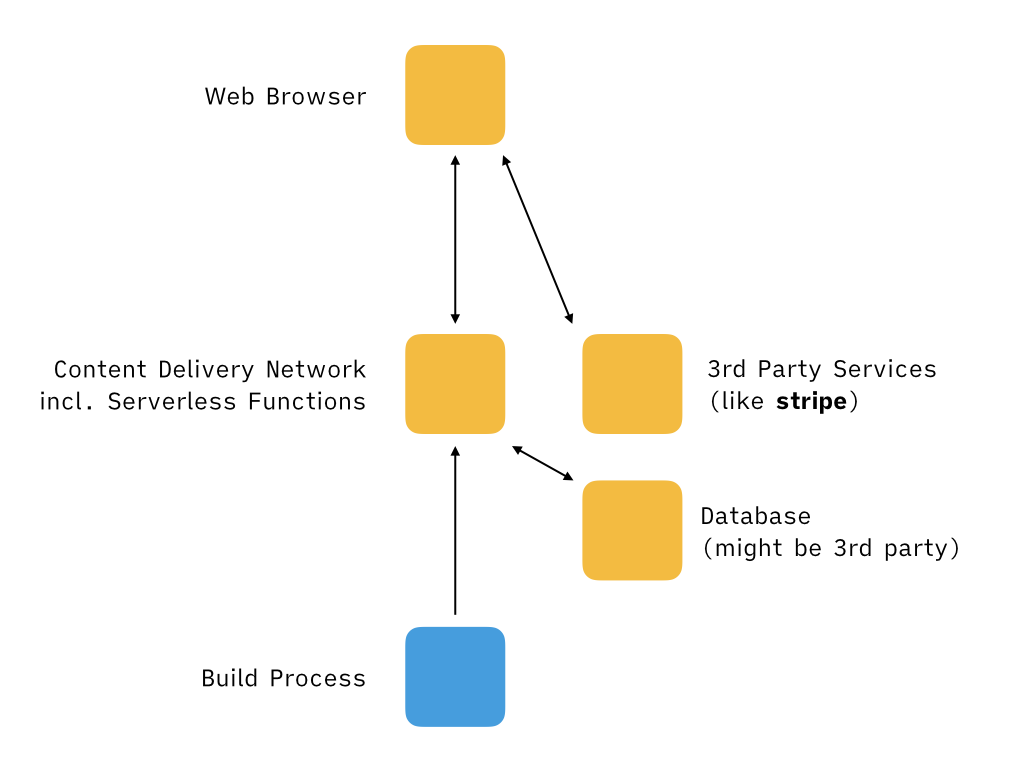
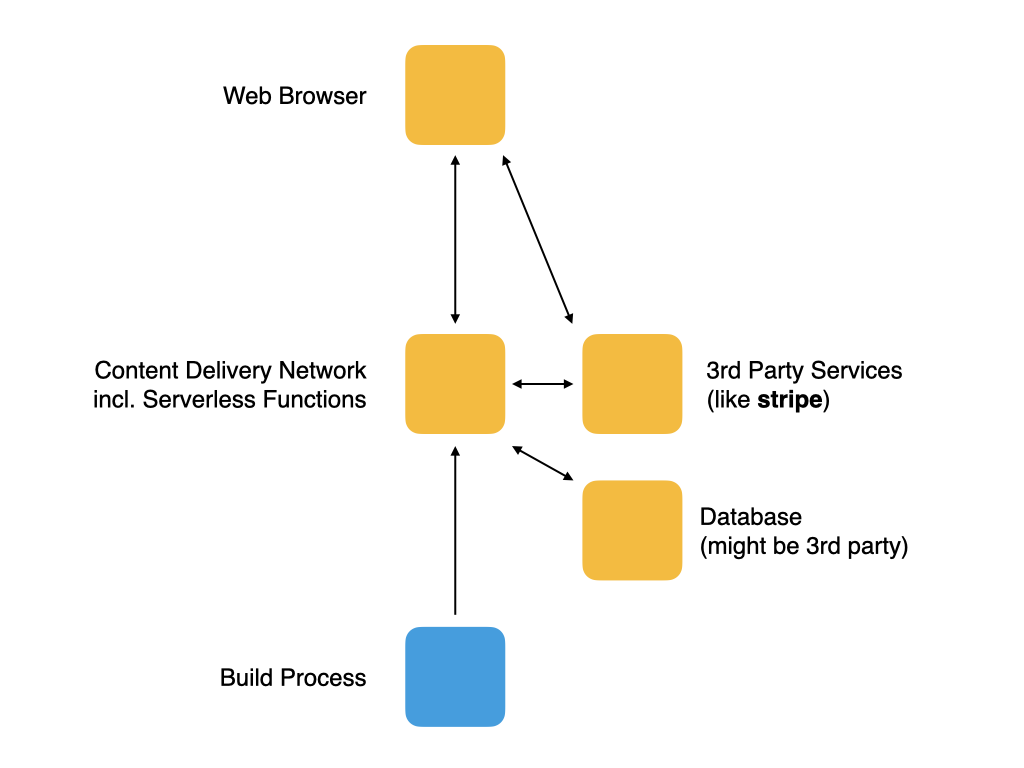
Exchange jamstack image

diff --git a/content/posts/2022-09-28-jamstack-in-20-minutes.md b/content/posts/2022-09-28-jamstack-in-20-minutes.md
@@ -47,7 +47,7 @@ Your services have to run on a server, how is that different from a web applicat
 For example, to perform the payment during checkout of a shopping basket, a 3rd party payment service like [**stripe**](https://stripe.com/de) could be integrated. 
 
 <figure>
-<img src="/img/jamstack/jamstack-with-3rd-party-service.png" alt="The Jamstack represented by a box for the web browsers, a box for the Content Delivey Network including the serverless functions, a box for third party services like stripe, a box for the database that might be third party, and a differently colored box for the build process. The web browsers are connected with a bi-directional arrow to the Content Delivery Network and with a bi-directional arrow to the third party services. The database is connected with a bi-drectional arrow to the Content Delivery Network, and the build process is pointing with a uni-directional arrow to the Content Delivey Network.">
+<img src="/img/jamstack/jamstack-with-3rd-party-service.png" alt="The Jamstack represented by a box for the web browsers, a box for the Content Delivey Network including the serverless functions, a box for third party services like stripe, a box for the database that might be third party, and a differently colored box for the build process. The web browsers are connected with a bi-directional arrow to the Content Delivery Network and with a bi-directional arrow to the third party services. The third party services are also connected with a bi-directional arrow to the Content Delivery Networ. The database is connected with a bi-drectional arrow to the Content Delivery Network, and the build process is pointing with a uni-directional arrow to the Content Delivey Network.">
 <figcaption>The Jamstack including 3rd party services</figcaption>
 </figure>
 
